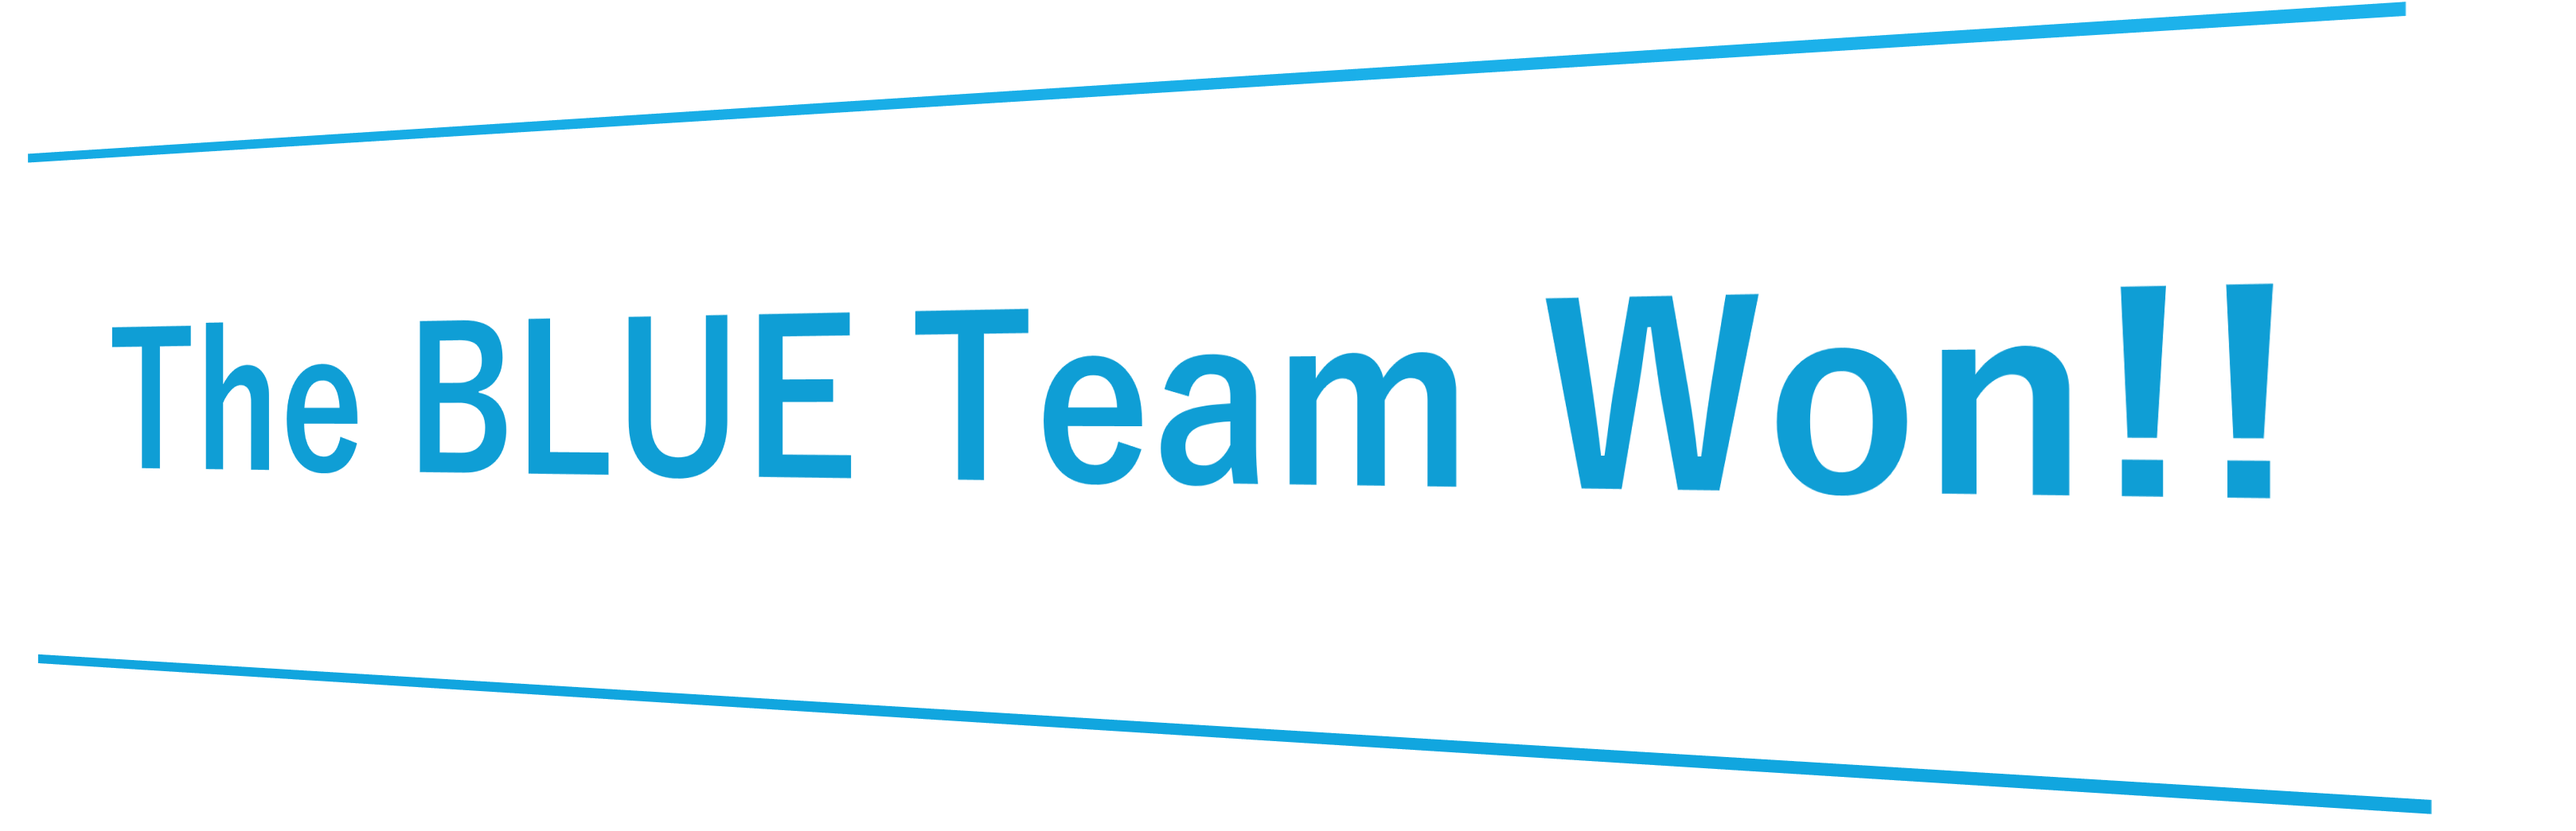
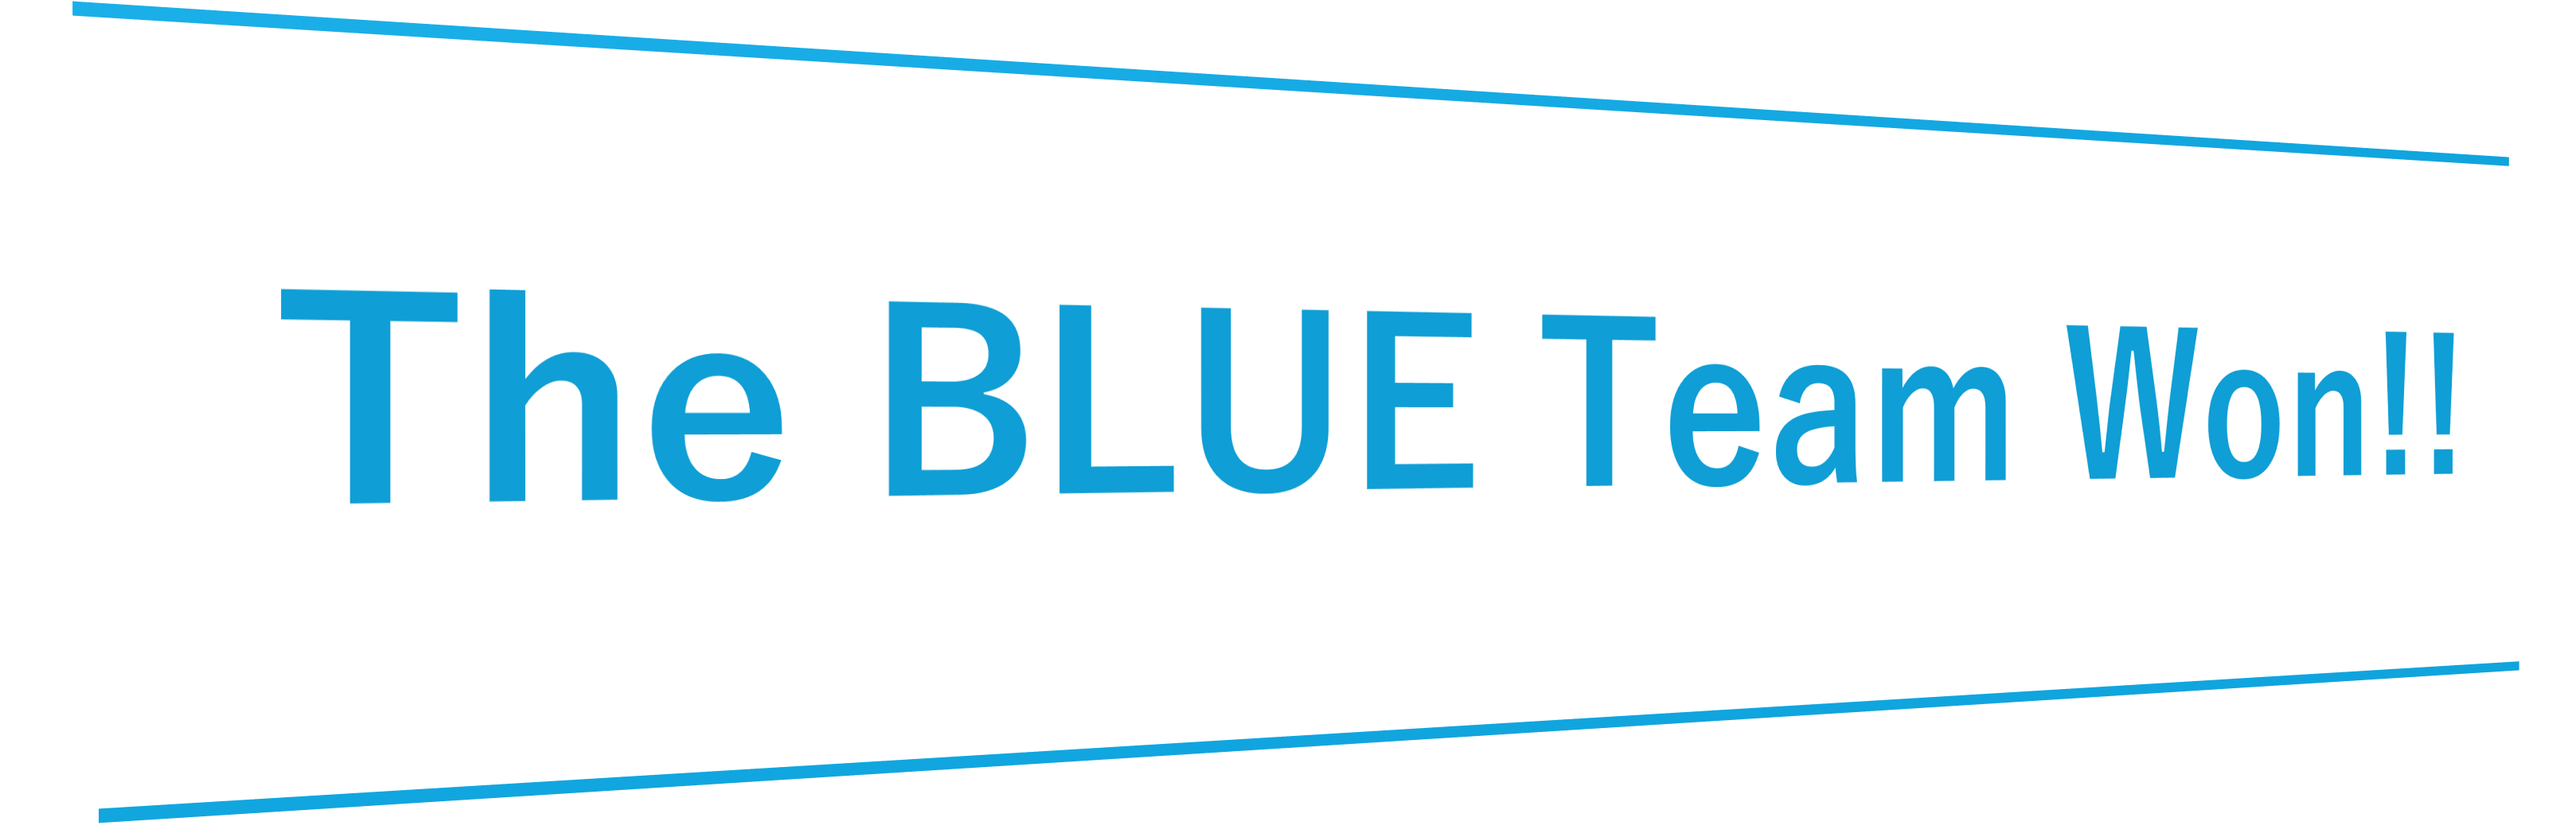
feat: UI改善とゲームロジックの調整
詳細:

- `SoundManager`: Clipプールサイズを5から10に拡張し、同時音再生の対応力を向上。
- `StartScreenPanel`: スタートボタンをモダンなデザインへ改良（フォント、色、サイズ変更、ホバー効果追加）。
- `WinnerInfo`: 回転や座標計算ロジックを修正し、描画の整合性を向上。
- `GamePanel`: コードの重複を排除し、`addNotify` と `paintComponent` メソッドを再配置。描画ロジックをリファクタリング。
- アセット類（`winner_blue.png`, `winner_red.png`）の変更を適用。

Changed region(s): [[0.0312, 0.3368, 0.9676, 0.6124], [0.0, 0.7656, 0.9676, 0.9799], [0.0, 0.0, 0.9676, 0.2144]]

diff --git a/src/client/GamePanel.java b/src/client/GamePanel.java
@@ -58,6 +58,33 @@ public class GamePanel extends JPanel {
     }
 
     /**
+     * パネルがコンテナに追加された際に呼ばれる。
+     * ゲームスレッドを開始する。
+     */
+    @Override
+    public void addNotify() {
+        super.addNotify();
+        if (gameEngine == null) return;
+        gameEngine.startGameThread(getWidth(), getHeight());
+    }
+
+    /**
+     * パネルの描画を行う。
+     * ゲームオブジェクトとUIを描画する。
+     *
+     * @param graphics 描画に使用するGraphicsオブジェクト
+     */
+    @Override
+    protected void paintComponent(Graphics graphics) {
+        super.paintComponent(graphics);
+        Graphics2D g = (Graphics2D) graphics;
+
+        if (gameEngine == null) return;
+        gameEngine.draw(g);
+
+    }
+
+    /**
      * ゲームモードに応じたInputStrategyを生成する。
      *
      * @param inputHandler ユーザー入力を処理するInputHandler
@@ -185,30 +212,4 @@ public class GamePanel extends JPanel {
             };
     }
 
-    /**
-     * パネルがコンテナに追加された際に呼ばれる。
-     * ゲームスレッドを開始する。
-     */
-    @Override
-    public void addNotify() {
-        super.addNotify();
-        if (gameEngine == null) return;
-        gameEngine.startGameThread(getWidth(), getHeight());
-    }
-
-    /**
-     * パネルの描画を行う。
-     * ゲームオブジェクトとUIを描画する。
-     *
-     * @param graphics 描画に使用するGraphicsオブジェクト
-     */
-    @Override
-    protected void paintComponent(Graphics graphics) {
-        super.paintComponent(graphics);
-        Graphics2D g = (Graphics2D) graphics;
-
-        if (gameEngine == null) return;
-        gameEngine.draw(g);
-
-    }
 }

diff --git a/src/client/ui/StartScreenPanel.java b/src/client/ui/StartScreenPanel.java
@@ -20,15 +20,34 @@ public class StartScreenPanel extends JPanel {
     public StartScreenPanel(ActionListener startListener) {
         // レイアウトマネージャーを設定
         setLayout(new GridBagLayout());
-        
-        // スタートボタンを生成
+
+        // モダンなスタートボタンを生成
         startButton = new JButton("Start Game");
-        startButton.setFont(new Font("Arial", Font.BOLD, 24));
-        
+        startButton.setFont(new Font("Segoe UI", Font.BOLD, 28));
+        startButton.setPreferredSize(new Dimension(250, 80));
+
+        // モダンな色設定
+        startButton.setBackground(new Color(0, 122, 255)); // 鮮やかな青
+        startButton.setForeground(Color.WHITE);
+        startButton.setFocusPainted(false);
+        startButton.setBorderPainted(false);
+
+        // 角丸ボーダー風の効果（マウスホバー時のエフェクト）
+        startButton.addMouseListener(new java.awt.event.MouseAdapter() {
+            public void mouseEntered(java.awt.event.MouseEvent evt) {
+                startButton.setBackground(new Color(0, 100, 220));
+            }
+            public void mouseExited(java.awt.event.MouseEvent evt) {
+                startButton.setBackground(new Color(0, 122, 255));
+            }
+        });
+
         // ボタンにアクションリスナーを設定
         startButton.addActionListener(startListener);
-        
+
         // ボタンをパネル中央に配置
         add(startButton);
     }
+
+
 }

diff --git a/src/client/ui/WinnerInfo.java b/src/client/ui/WinnerInfo.java
@@ -104,9 +104,9 @@ public class WinnerInfo implements UIContent {
 
 		AffineTransform trans = new AffineTransform();
 		trans.translate(windowWidth / 2.0, windowHeight / 3.0);
-		trans.rotate(isRed ? rotate : -rotate);
-		trans.translate(isRed ? vanishingPoint : -vanishingPoint, 0);
-		trans.translate(isRed ? x : -x , 0);
+		trans.rotate(isRed ? -rotate : rotate);
+		trans.translate(isRed ? -vanishingPoint : vanishingPoint, 0);
+		trans.translate(isRed ? -x : x , 0);
 		trans.scale(scale, scale);
 		trans.translate(-this.image.getWidth() / 2.0, -this.image.getHeight() / 2.0);
 		graphics.drawImage(image, trans, null);

diff --git a/src/client/SoundManager.java b/src/client/SoundManager.java
@@ -24,7 +24,7 @@ import java.util.List;
 public class SoundManager {
 
 	// Clipプール
-	private static final int POOL_SIZE = 5;
+	private static final int POOL_SIZE = 10;
 	private static List<Clip> bulletExplosionPool;
 	private static List<Clip> createBlockPool;
 	private static List<Clip> objectBreakPool;
